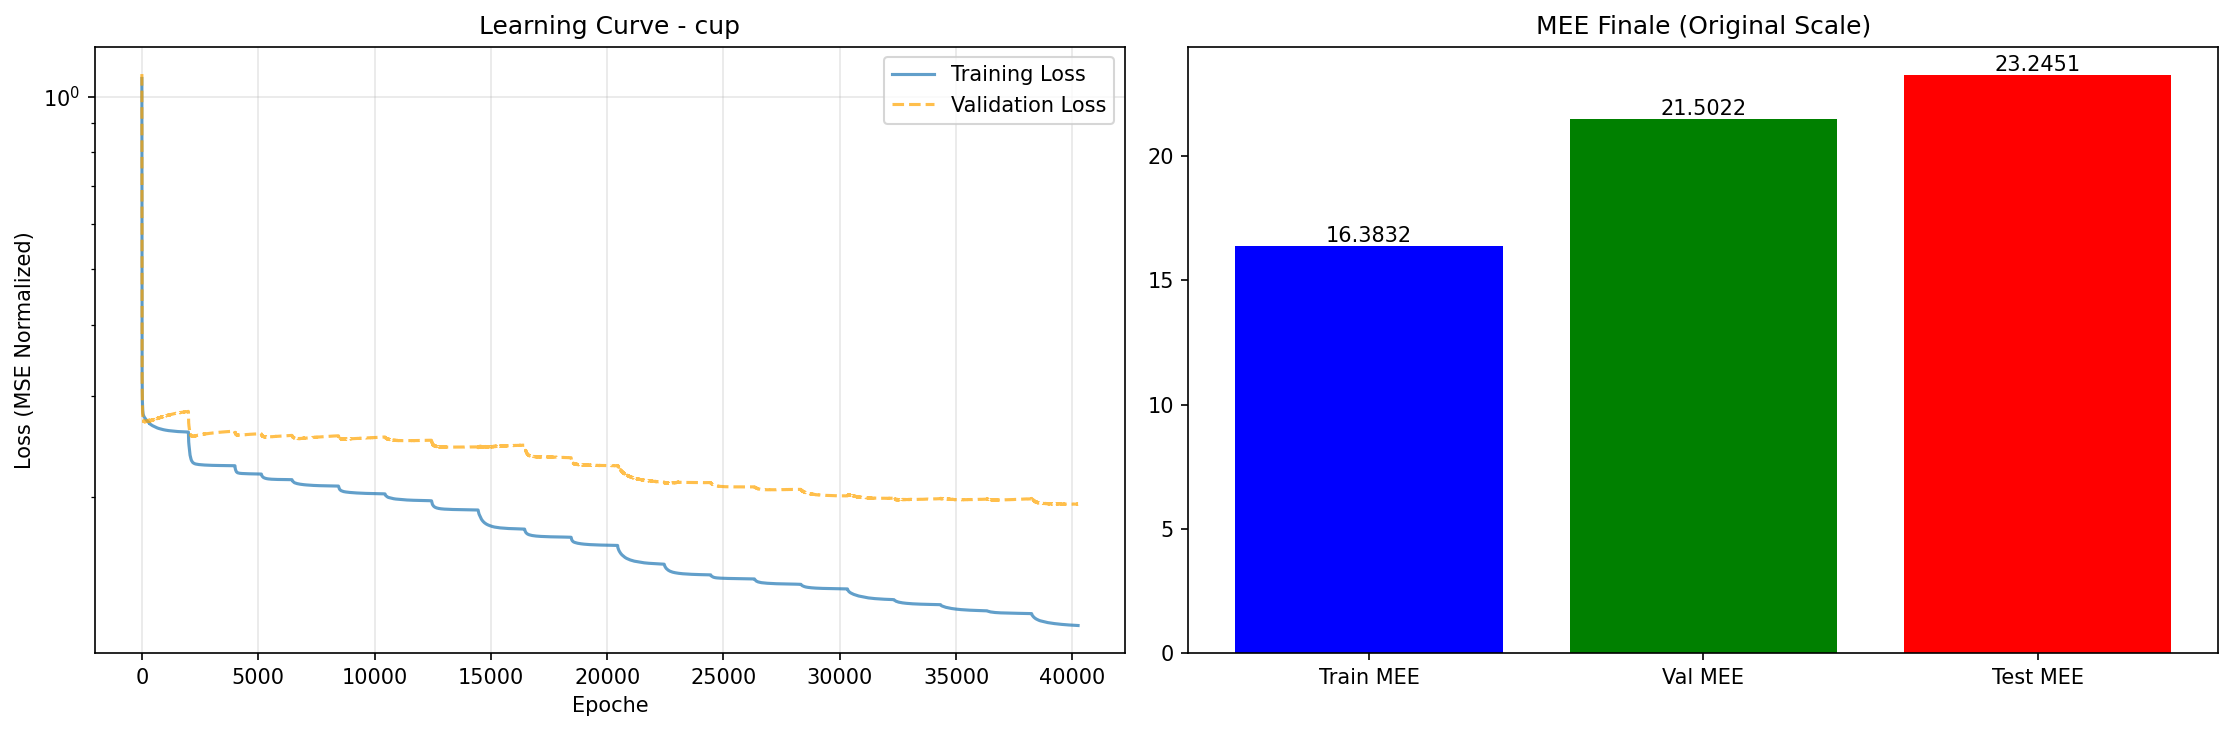
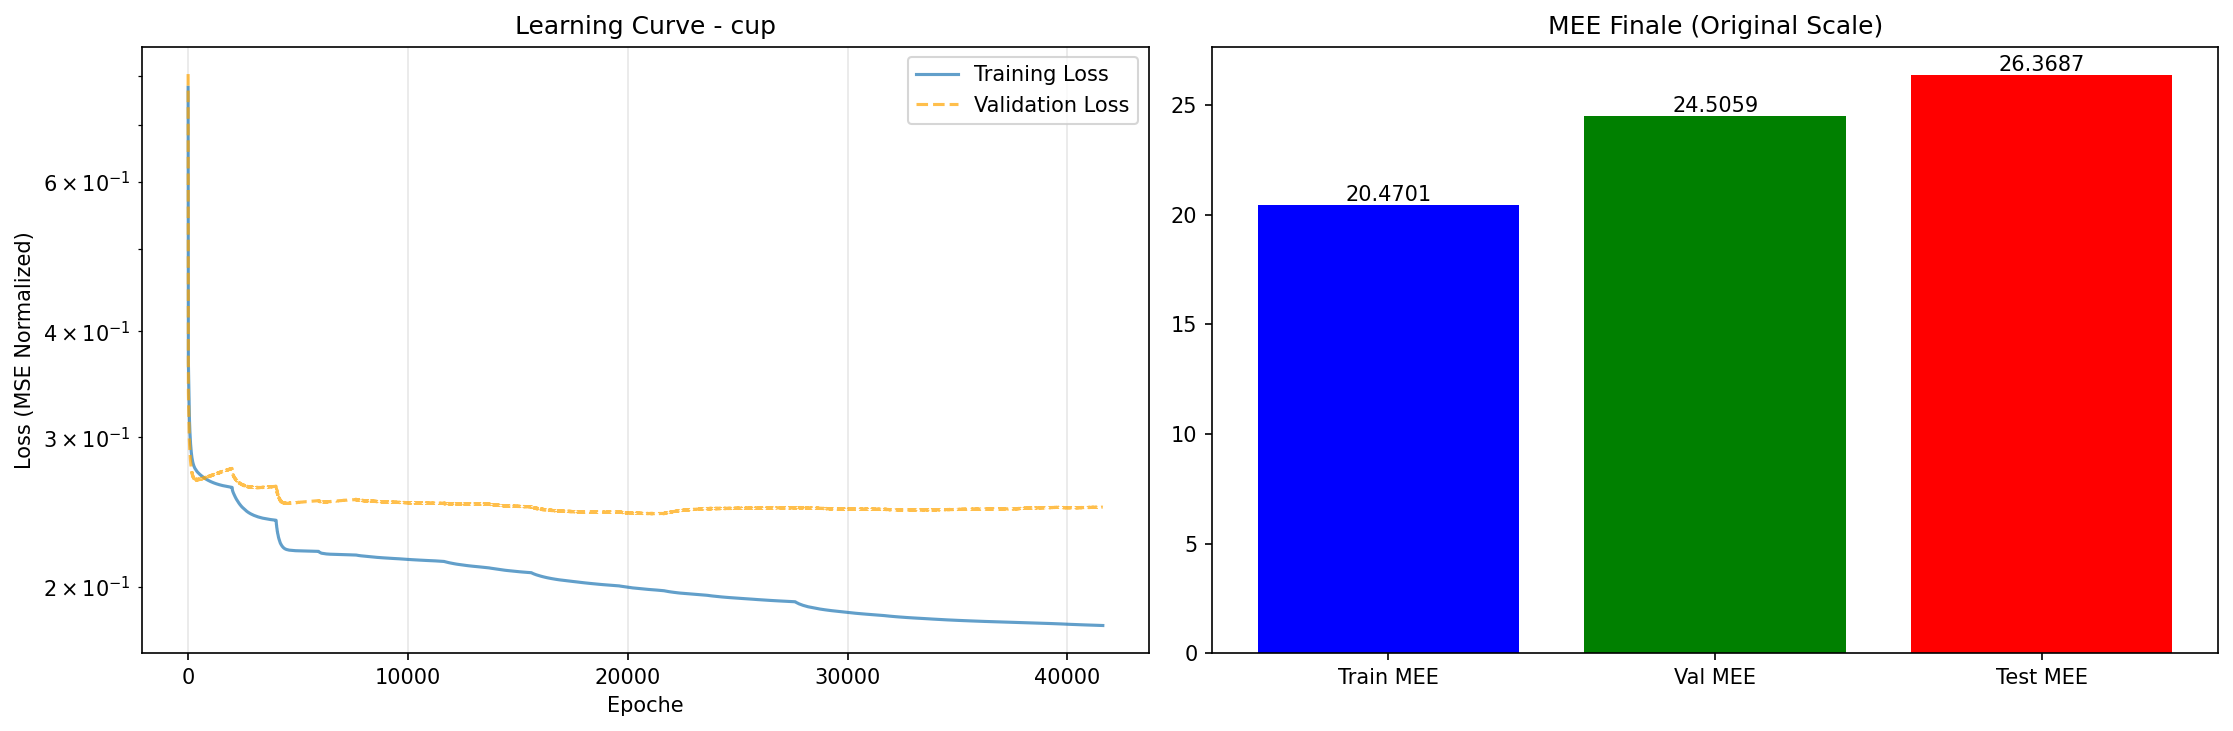
final-results-cascade

diff --git a/src/cascade_grid_search.py b/src/cascade_grid_search.py
@@ -130,15 +130,16 @@ class CascadeGridSearch:
         print("INIZIO COARSE SEARCH CASCADE")
 
         common_fixed = {'epochs': [2000], 'algorithm': ['quickprop', 'rprop']}
-        if self.dataset_name in ['monk3']:
+        if self.dataset_name == 'cup':
             param_grid = {
-                'learning_rate': [0.01, 0.05, 0.1],
-                'patience': [30],            # Meno pazienza, fermati prima
-                'tolerance': [0.01],         # Tolleranza più alta per ignorare il rumore
-                'max_hidden_units': [3, 5],  # Pochi neuroni! Max 3-5 sono spesso sufficienti
-                'l2_lambda': [1e-4, 1e-3, 1e-2], # REGOLARIZZAZIONE FONDAMENTALE
+                'learning_rate': [0.001, 0.005, 0.01, 0.05],
+                'patience': [50, 80],
+                'tolerance': [0.001, 0.0001],
+                'max_hidden_units': [20],  # Fisso e più alto
+                'algorithm': ['quickprop', 'rprop'],
                 **common_fixed
             }
+            
         """if self.dataset_name in ['monk1', 'monk2']:
              param_grid = {
                 'learning_rate': [0.01, 0.05, 0.1, 0.2],
@@ -148,16 +149,7 @@ class CascadeGridSearch:
                 'algorithm': ['quickprop', 'rprop'],
                 **common_fixed
             }
-        elif self.dataset_name == 'cup':
-            param_grid = {
-                'learning_rate': [0.001, 0.005, 0.01, 0.05],
-                'patience': [50, 80],
-                'tolerance': [0.001, 0.0001],
-                'max_hidden_units': [20],  # Fisso e più alto
-                'algorithm': ['quickprop', 'rprop'],
-                **common_fixed
-            }
-        else:
+        else: # monk3
             param_grid = {
                 'learning_rate': [0.01, 0.05, 0.1],
                 'patience': [30],            # Meno pazienza, fermati prima
